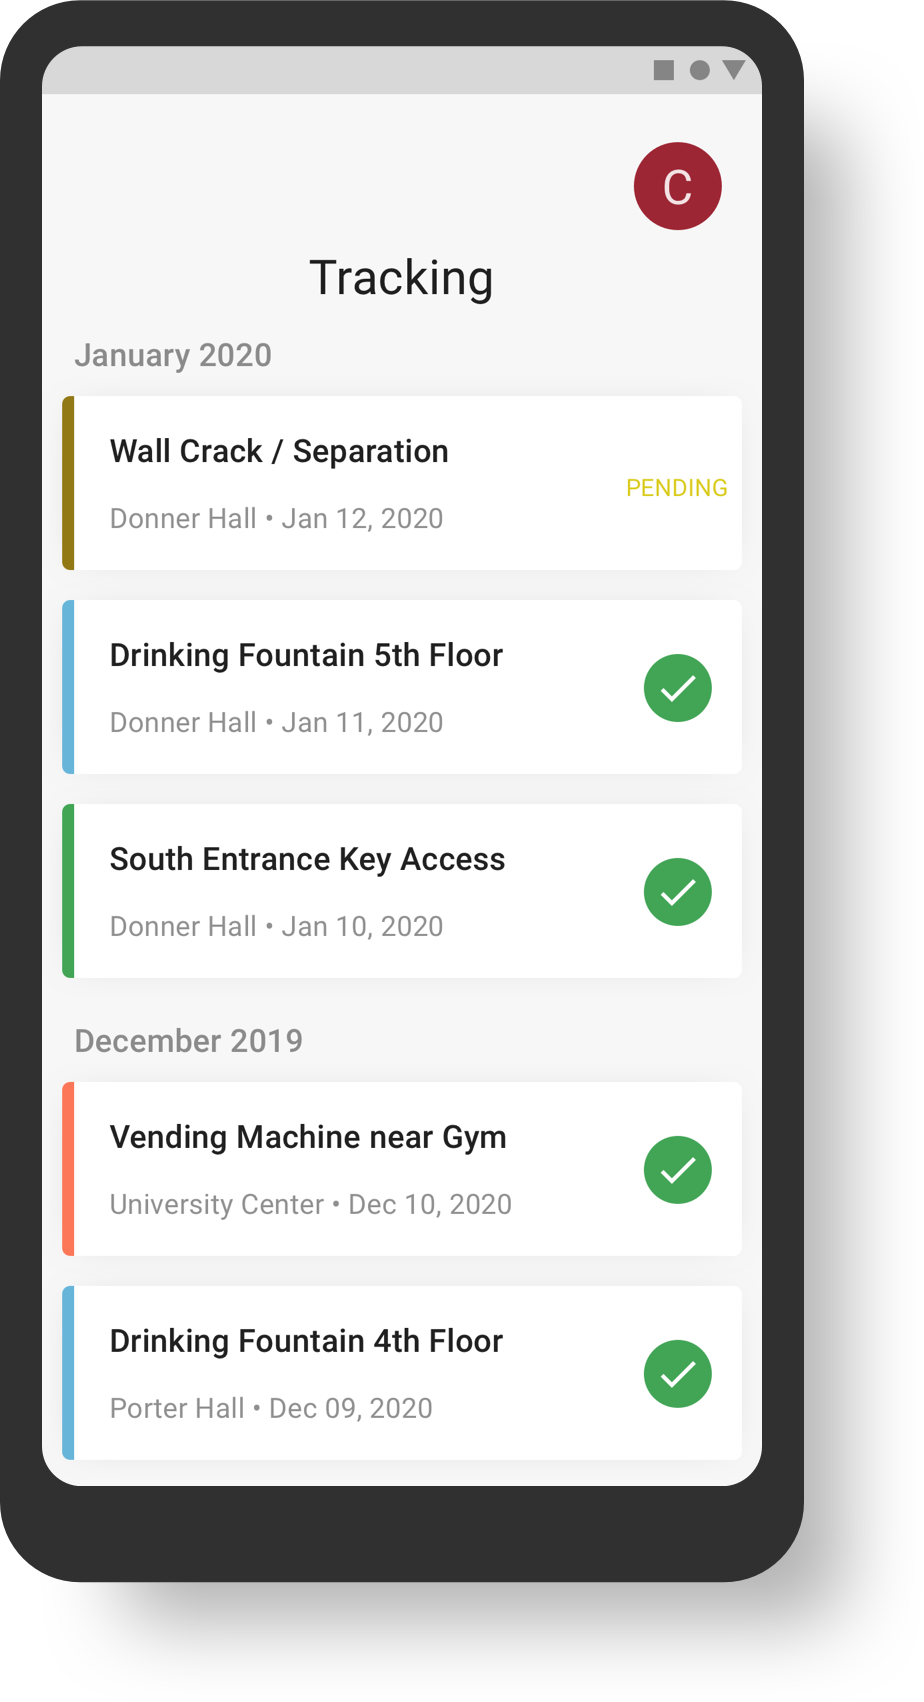
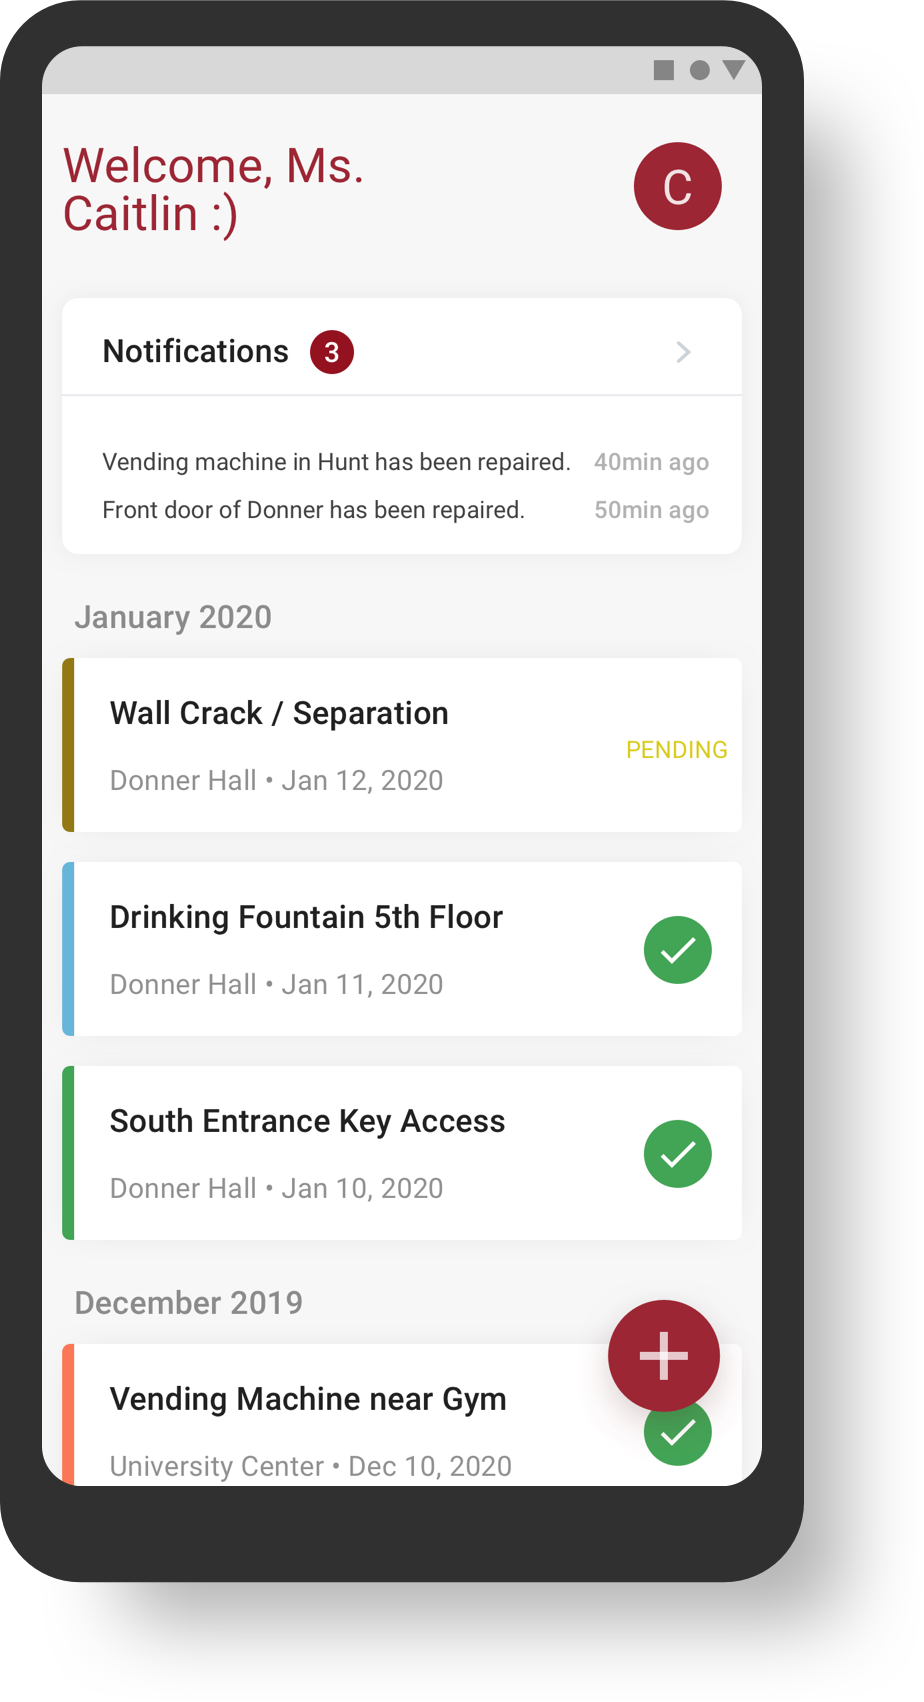
1

diff --git a/Campus+.html b/Campus+.html
@@ -263,7 +263,7 @@
                     <h1 id="1" class="middle_title" style="">The Context: <br>Online Research, Field Trip and Interview</h1>
                     <h3>What are the current reporting process and existing problems?</h3>
                     <P>
-                        Students have several ways to report a facility issue - by filling out a complicated form, sending an email, making a phone call, or directly going to the facilities management building.
+                        Students have several ways to report a building or facility issue - by filling out a complicated form, sending an email, making a phone call, or directly going to the facilities management building.
                     </P>
                     <div>
                         <img class="img" src="images/Campus+/Online_Research_1.png" style="height: 200px;  ">
@@ -325,7 +325,7 @@
                     <h1 id="3" class="middle_title" style="">Insight</h1>
                     <h1>Students need the <b>motivation and easier and simpler ways to report and track</b> facility and building issues.</h1>
                     <h1>Facility staff also need a better way to know the existence, and prioritize facility and building issues.</h1>
-                    <h1>Besides, students have the need to find a facility or a building.</h1>
+
                 </div>
             </div>
         </div>
@@ -392,7 +392,7 @@
 
                 <div class="expanded__content" style="width: 100%;">
                     <h1 id="5" class="middle_title" style="width: 100%;">Information Architecture</h1>
-                    <img src="./images/Campus+/Campus+@2x.png" style="width: 80%; margin-left: 10%;">
+                    <img src="./images/Campus+/Campus+@2x.png" style="width: 100%; margin-left: 0%;">
                 </div>
 
             </div>
@@ -460,27 +460,9 @@
         </div>
     </div>
 
-    <div class="expanded landing__section">
-        <div class="container">
-            <div class="expanded__inner">
 
-                <div class="expanded__content">
-                    <h1 class="expanded__title">Homepage</h1>
 
-                    <h3>Facility and Building Management</h3>
-                    <p>
-                        Students can track issues and get notified when there are updates on the status. After realizing reporting issues are usually related with finding specific buildings and facilities, I expanded the scope of this project for a little bit. For example, students
-                        could search for a building, find vending machines in a specific building in the app, and get notified when one of them are broken.
-                    </p>
-                </div>
-                <div class="expanded__media">
-                    <img class="img" src="./images/Campus+/HiFi/Facilities_MockUp.png" width="70%">
-                </div>
-            </div>
-        </div>
-    </div>
-
-    <div class="expanded landing__section">
+    <!-- <div class="expanded landing__section">
         <div class="container">
             <div class="expanded__inner">
 
@@ -497,57 +479,18 @@
                 </div>
             </div>
         </div>
-    </div>
-
+    </div> -->
     <div class="expanded landing__section">
         <div class="container">
             <div class="expanded__inner">
 
                 <div class="expanded__content">
-                    <h1 class="expanded__title">Scan</h1>
+                    <h1 class="expanded__title">Homepage</h1>
 
-                    <h3>Minimal Interaction</h3>
+                    <h3>Report an issue, track the process, and get notified.</h3>
                     <p>
-                        Usually, only the middle part of the screen will be used when users are scanning a QR code. Thus, I put the type area at the bottom of the screen to simplify interaction - users don't have to move their fingers during the transition from tapping the "Add"
-                        button to typing the id. Besides, they can also scroll down to go back to the homepage. A haptic feedback will be shown to indicate users when they are closing this page.
-                    </p>
-                </div>
-                <div class="expanded__media">
-                    <img class="img" src="./images/Campus+/HiFi/Scan.png" width="70%">
-                </div>
-            </div>
-        </div>
-    </div>
-
-    <div class="expanded landing__section">
-        <div class="container">
-            <div class="expanded__inner">
-
-                <div class="expanded__content">
-                    <h1 class="expanded__title">Issue Reporting</h1>
-
-                    <h3>Students need an easy reporting process.</h3>
-                    <p>
-                        The reporting page is highly simplified - the facility type and id are automatically added, and the description and photo sections are optional. The only required thing is choosing an issue type.
-                    </p>
-                </div>
-                <div class="expanded__media">
-                    <img class="img" src="./images/Campus+/HiFi/IssueReport_MockUp.png" width="70%">
-                </div>
-            </div>
-        </div>
-    </div>
-
-    <div class="expanded landing__section">
-        <div class="container">
-            <div class="expanded__inner">
-
-                <div class="expanded__content">
-                    <h1 class="expanded__title">Tracking</h1>
-
-                    <h3>Track the process, and get notified.</h3>
-                    <p>
-                        Students can track issues at this page. Those reported by themselves will be automatically added to tracking issues.
+                        Students can press the "+" button to start reporting issues. After reporting an issue, the issue will be added and tracked at homepage. Different facilities and buildings are differentiated by different colors.<b>It is designed that only after they report an issue can they track it. </b>They
+                        can also get notified when there're some other important updates.
                     </p>
                 </div>
                 <div class="expanded__media">
@@ -562,11 +505,54 @@
             <div class="expanded__inner">
 
                 <div class="expanded__content">
+                    <h1 class="expanded__title">Scan</h1>
+
+                    <h3>Minimal Interaction</h3>
+                    <p>
+                        Students can scan the QR code on the sticker near the facility to report an issue. For those without cellphone in their pockets or without smartphones, they can also type the equipment id to report. <br><br>Usually, only the middle
+                        part of the screen will be used when users are scanning a QR code. Thus, I put the type area at the bottom of the screen to simplify interaction - users don't have to move their fingers during the transition from tapping the "Add"
+                        button to typing the id. Besides, they can also scroll down to go back to the homepage. A haptic feedback will be shown to indicate users when they are closing this page.
+                    </p>
+                </div>
+                <div class="expanded__media">
+                    <img class="img" src="./images/Campus+/HiFi/Scan.png" width="70%">
+                </div>
+            </div>
+        </div>
+    </div>
+
+    <div class="expanded landing__section">
+        <div class="container">
+            <div class="expanded__inner">
+
+                <div class="expanded__content" style="width: 50%;">
+                    <h1 class="expanded__title">Issue Reporting</h1>
+
+                    <h3>Students need an easy reporting process.</h3>
+                    <p>
+                        The reporting page is highly simplified - the facility type and id are automatically added, the description and photo sections are optional, and the preset urgency is medium. The only required thing is choosing an issue type.
+                    </p>
+                </div>
+                <div class="expanded__media" style="width: 60%; margin-left: 5%;">
+                    <img class="img" src="./images/Campus+/HiFi/IssueReport_MockUp.png" width="50%">
+                    <img class="img" src="./images/Campus+/HiFi/Finish_Reporting_Mockup.png" width="50%" style="float: right;">
+                </div>
+            </div>
+        </div>
+    </div>
+
+
+
+    <div class="expanded landing__section">
+        <div class="container">
+            <div class="expanded__inner">
+
+                <div class="expanded__content">
                     <h1 class="expanded__title">Rewards</h1>
 
                     <h3>Report issues and get rewards!</h3>
                     <p>
-                        Students can track issues at this page. Those reported by themselves will be automatically added to tracking issues.
+                        Students can get some benefits, such as cash rewards and coupons, which could motivate them to report issues. Once an issue is confirmed, students can get some points. The first several students reporting an issue will get extra points.
                     </p>
                 </div>
                 <div class="expanded__media">
@@ -580,15 +566,53 @@
         <div class="container">
             <div class="expanded__inner">
 
+                <div class="expanded__content" style="width: 50%; margin-top: -100px;">
+                    <h1 class="expanded__title">Iteration</h1>
+
+                    <h3>Keep it simple</h3>
+                    <p>
+                        My original design decision is to integrate the function of searching and finding a building, and checking the facilities inside a building into the app. However, I realized it's both difficult and unnecessary for campus+ to have such functions - why
+                        don't students use Google Maps? Any location-based searching and finding tasks could be integrated into a small feature in Google Maps, and there's no reason for students to switch to another app when finding a building. <br><br>Besides,
+                        the need of finding a drinking fountain or a vending machine doesn't have a high priority - there are many such facilities on campus, and students can easily find them.
+                    </p>
+                </div>
+                <div class="expanded__media" style="width: 60%; margin-left: 5%;">
+                    <img class="img" src="./images/Campus+/HiFi/Facilities_MockUp.png" width="50%">
+                    <img class="img" src="./images/Campus+/HiFi/HuntLib_MockUp.png" width="50%" style="float: right;">
+                    <P class="subtitle">The previous homepage and building details page.</P>
+                </div>
+            </div>
+        </div>
+    </div>
+
+    <div class="expanded landing__section" style="">
+        <div class="container">
+            <div class="expanded__inner">
+
+                <div class="expanded__content" style="width: 100%;">
+                    <h1 id="5" class="middle_title" style="width: 100%;">Web App for Facility Administrators</h1>
+                    <P>Facility administrators can filter the tasks by many factors - location, reported times, urgency, etc. Therefore, they can better prioritize tasks when resources and facility staff members are not enough.</P>
+                    <img class="img" src="./images/Campus+/Web.png" style="width: 100%; margin-left: 0%; box-shadow: 0px 0px 20px #c0c0c0;">
+                </div>
+
+            </div>
+        </div>
+    </div>
+
+    <div class="expanded landing__section">
+        <div class="container">
+            <div class="expanded__inner">
+
                 <div class="expanded__content">
                     <h1 class="expanded__title">Reflection</h1>
 
-                    <h3>Start from the users</h3>
+                    <h3>Thinking from the users</h3>
                     <p>
                         I learned a lot during the user research and was quite surprised about why students don't have the motivation to report issues. It's difficult to educate students to volunteer to report issues, but here comes what I love most about design - we can make
-                        everything better by simplifying reporting process and giving rewards. <br><br>A potential way to further simplify this is to integrate it into a feature in Google Maps. However, considering each school
-                        has different facilities and buildings, I still used a combined approach of app + physical touch point (the stickers).
+                        everything better by simplifying reporting process, giving rewards, and pushing a little bit: only allow them to track an issue after reporting it.
                     </p>
+                    <h3>Less is more</h3>
+                    <P>It's not always comfortable to simplify my design. Here's what I learned: it's not enough to find a way to solve the problem. It's better if you can find the easiest way to solve the problem.</P>
                 </div>
                 <div class="expanded__media">
                     <img src="./images/Campus+/Student.svg" width="70%">
@@ -675,4 +699,4 @@
     </script>
 </body>
 
-</html>
+</html

diff --git a/index.html b/index.html
@@ -246,7 +246,7 @@
                     <p class="expanded__text">A experience system helping students report and track facility and building issues.</div>
                 <div class="expanded__media">
                     <a href="Campus+.html">
-                        <img class="landing_img" src="./images/Campus+/HiFi/Facilities_MockUp.png" width="60%">
+                        <img class="landing_img" src="./images/Campus+/HiFi/Tracking_MockUp.png" width="60%">
                     </a>
                 </div>
             </div>
